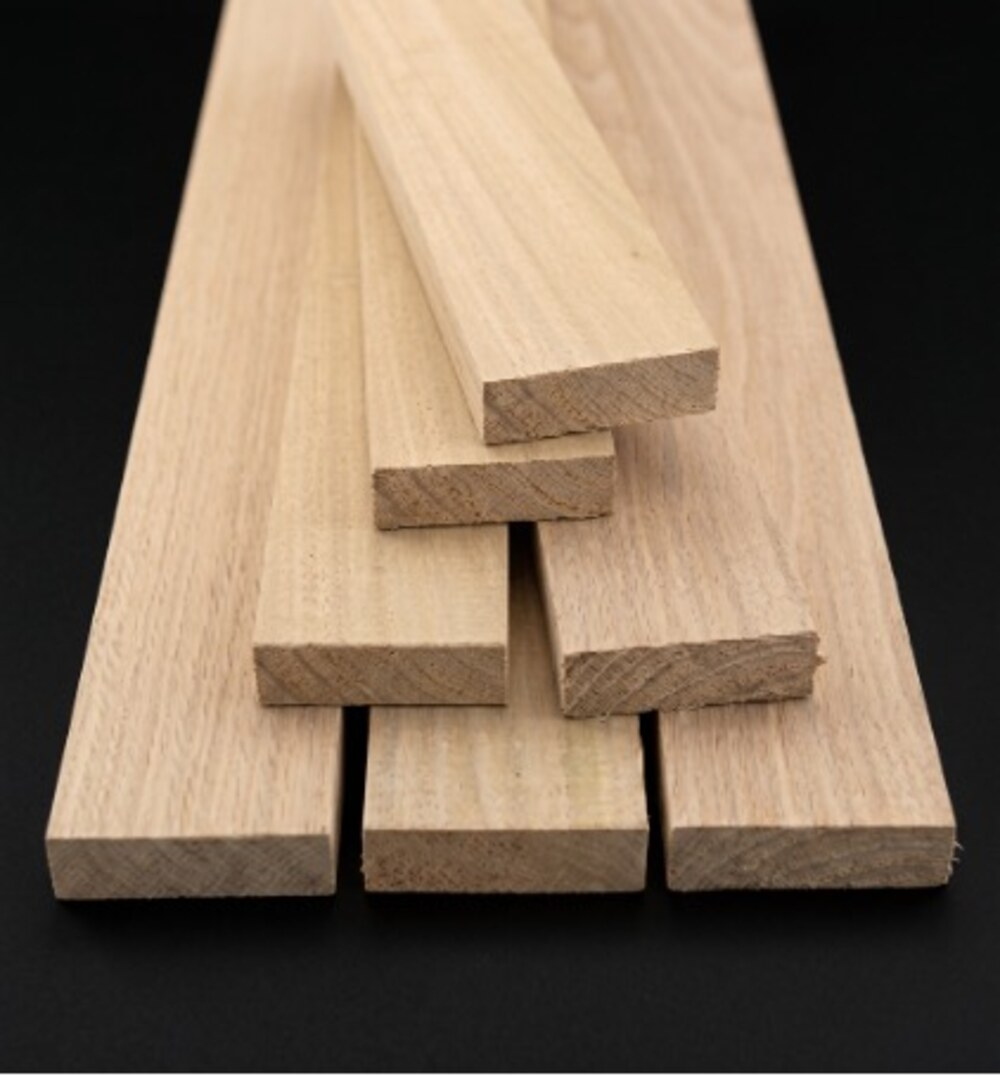
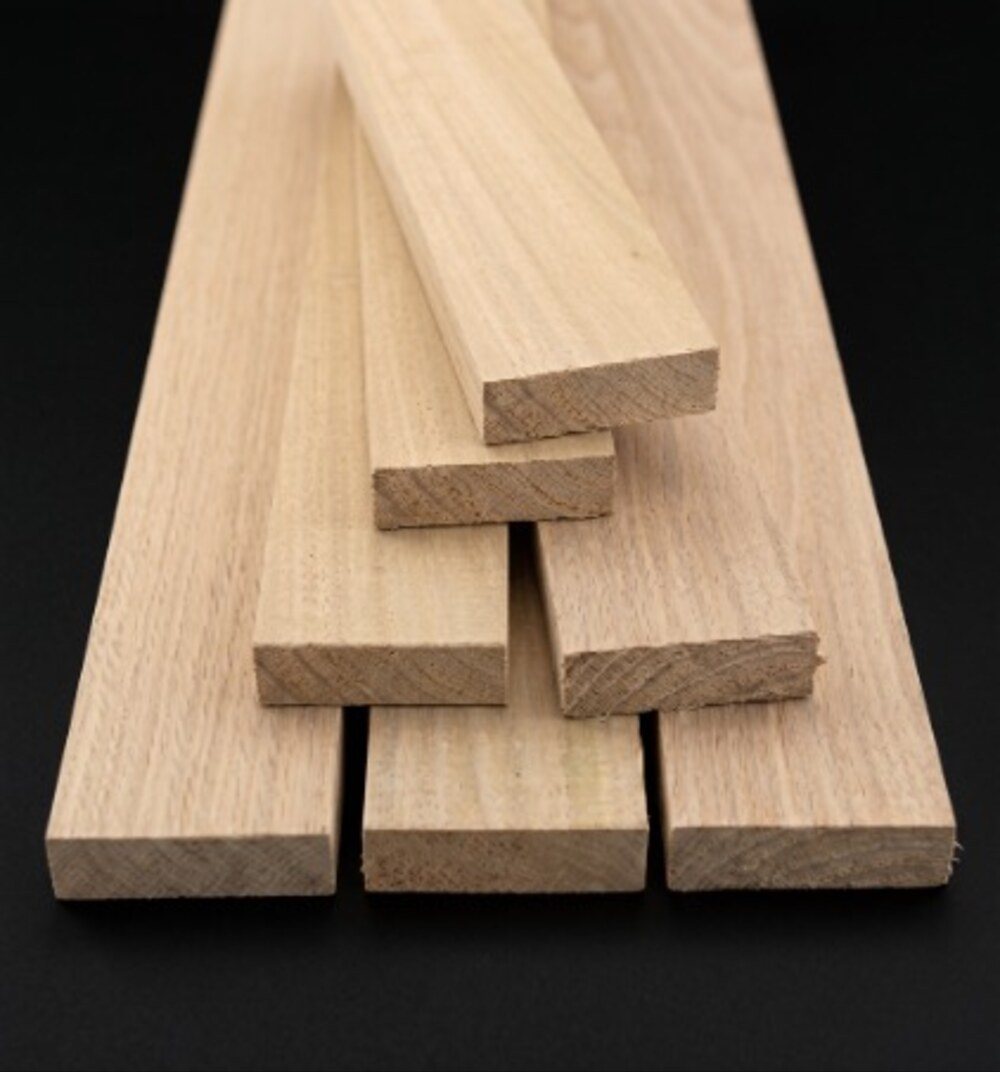
Match tech slide image boxes: equal size, same dark backdrop
Feedstock and SUPERWOOD output boxes now share a fixed aspect
ratio so tops and bottoms align exactly. Output backdrop changed
from the warm gradient to a dark studio radial sampled from the
feedstock photo so the two read as a matched pair. Cropped the
white scan line off the bottom of feedstock.jpg.

diff --git a/superwood-presentation/index.html b/superwood-presentation/index.html
@@ -129,9 +129,10 @@ nav.dots button:hover span{opacity:1}
 /* TECHNOLOGY (slide 6) */
 .tech-flow{display:grid;grid-template-columns:.8fr 1.6fr .8fr;gap:1.6rem;align-items:start;margin-top:2rem}
 .tech-flow .cap{font-size:.7rem;letter-spacing:.2em;text-transform:uppercase;color:var(--muted);margin-bottom:.8rem}
-.tech-img{border-radius:12px;overflow:hidden;border:1px solid var(--line);background:#0d0a07}
-.tech-img img{width:100%;display:block}
-.tech-end .tech-img{background:radial-gradient(120% 135% at 50% 28%,#8a6a40 0%,#574022 55%,#3a2914 100%);padding:12px}
+.tech-img{border-radius:12px;overflow:hidden;border:1px solid var(--line);background:#0d0a07;aspect-ratio:1000/1072}
+.tech-img img{width:100%;height:100%;object-fit:cover;display:block}
+.tech-end .tech-img{background:radial-gradient(120% 100% at 50% 42%,#262422 0%,#100e0c 68%,#080807 100%);padding:12px}
+.tech-end .tech-img img{object-fit:contain}
 .tech-end h3{font-family:'Fraunces';font-size:1.6rem;color:var(--wood-bright);margin-bottom:.6rem}
 .tech-end .small{font-size:.78rem;color:var(--cream-dim);line-height:1.5}
 .tech-mid{display:flex;flex-direction:column;gap:.7rem}